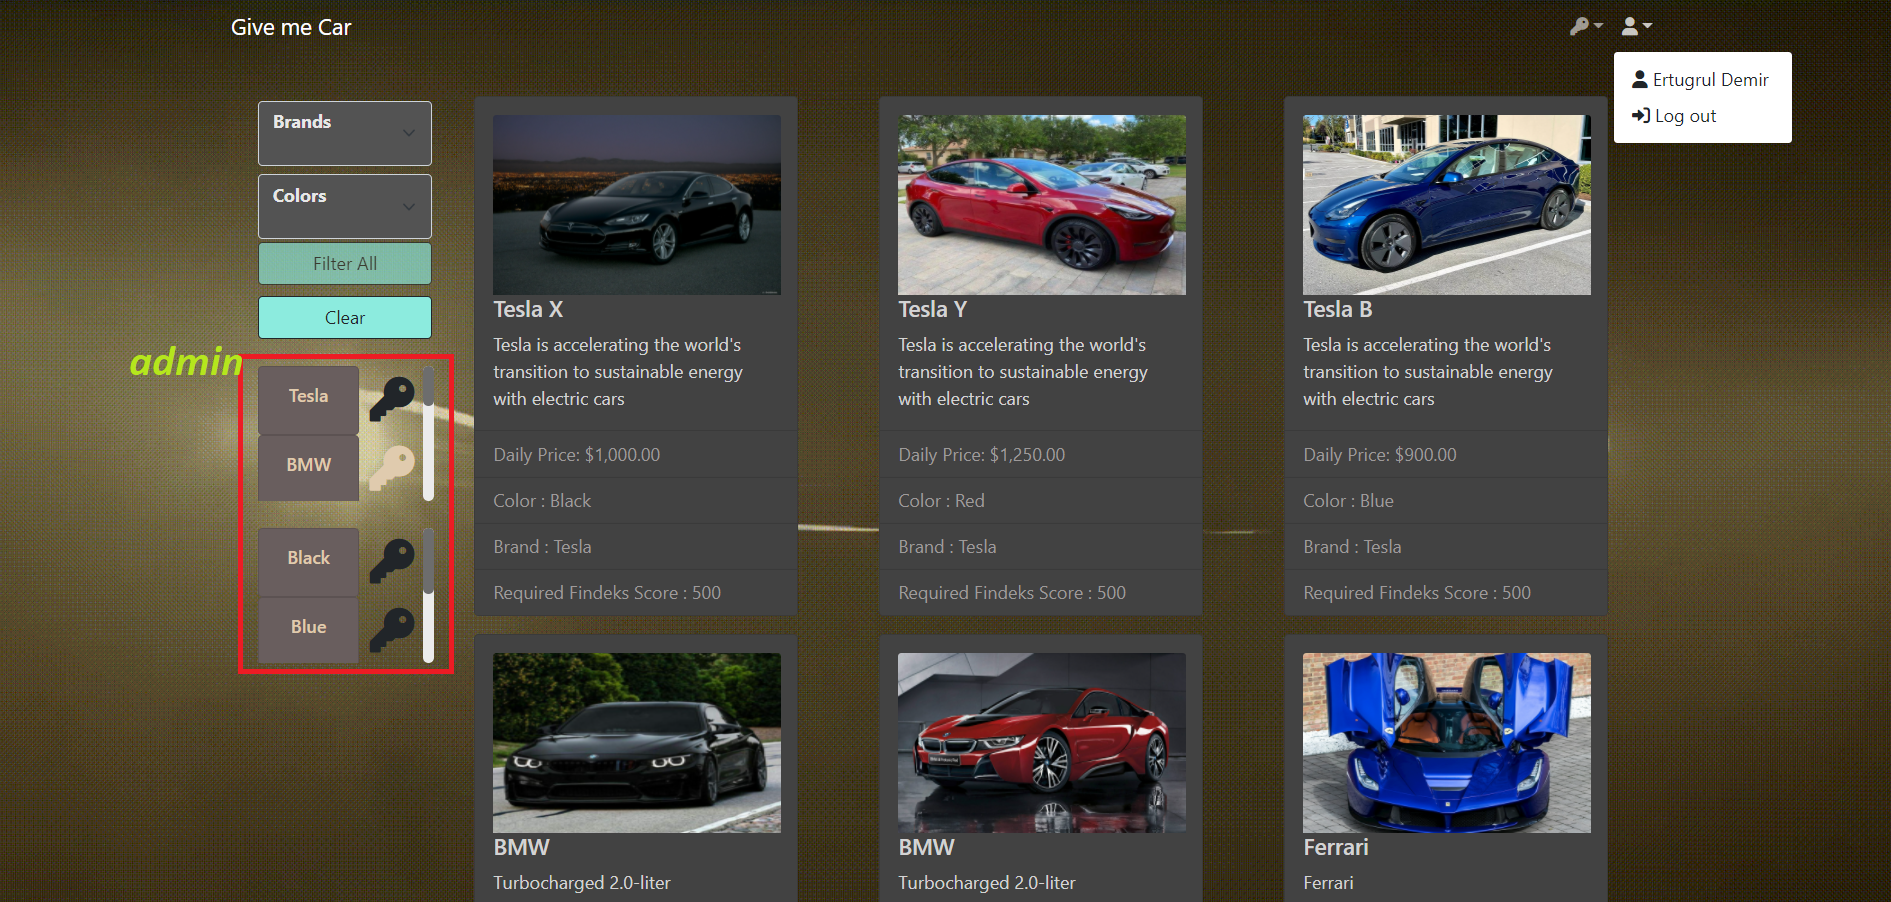
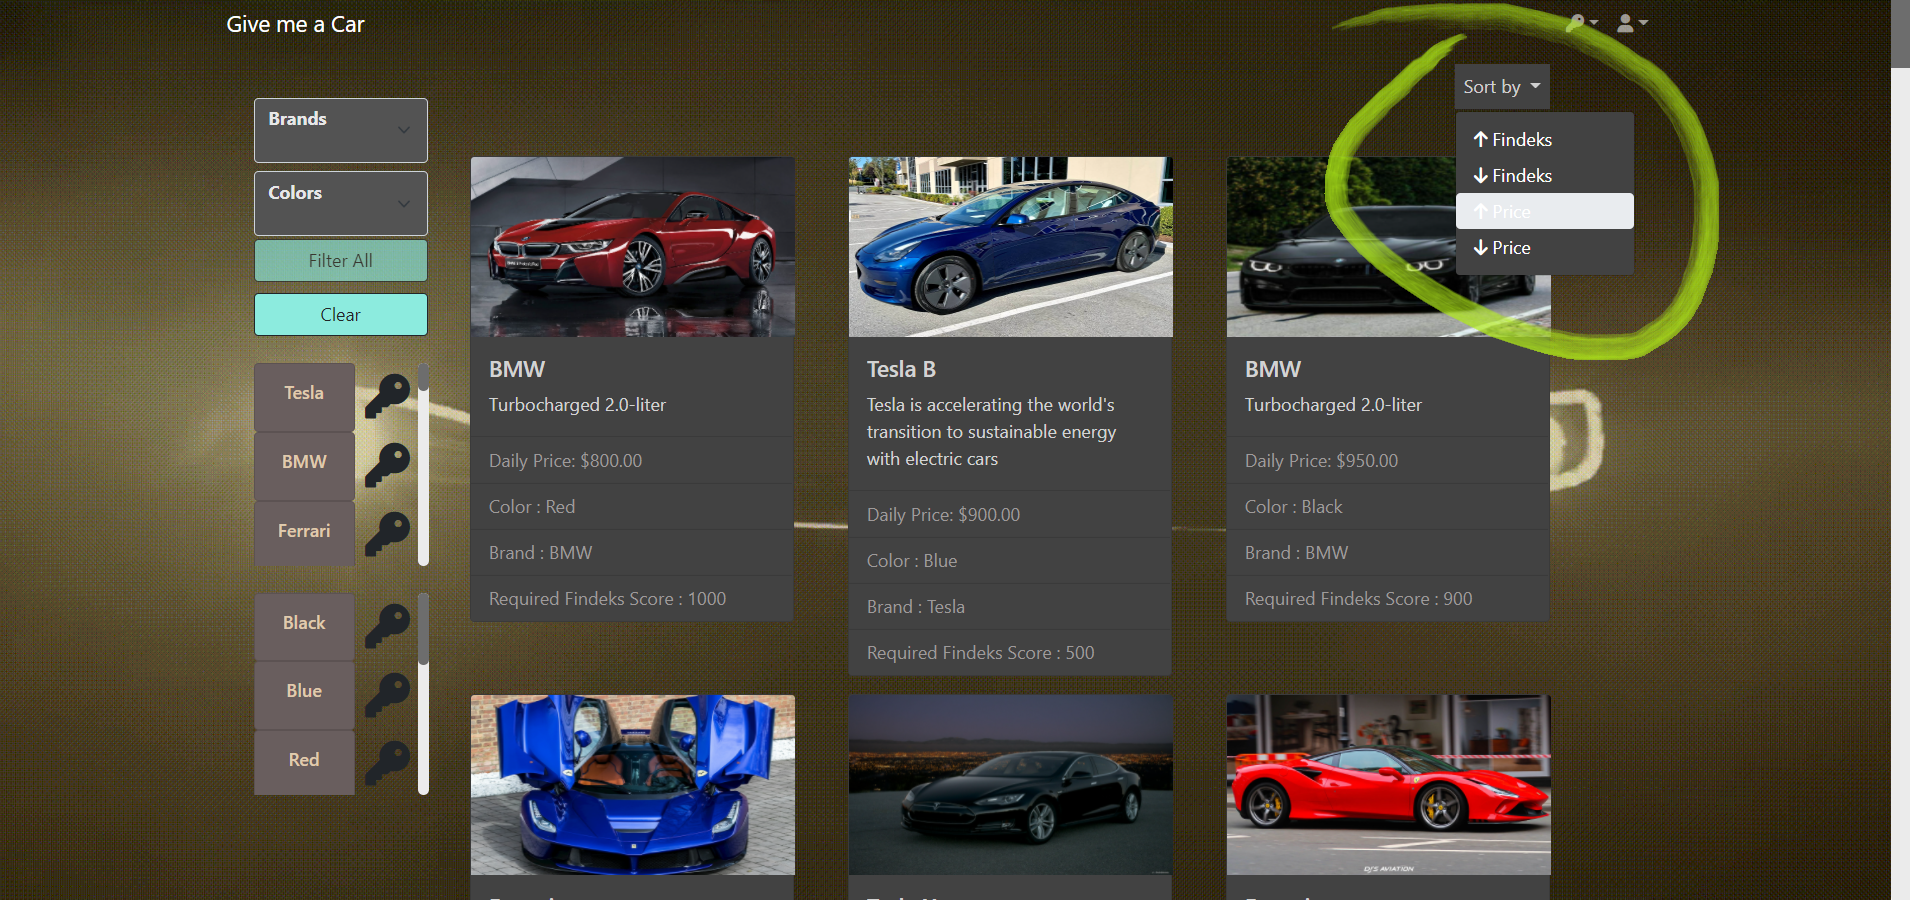
.

diff --git a/src/app/components/car/car.component.html b/src/app/components/car/car.component.html
@@ -57,18 +57,18 @@
                           <a
                             class="dropdown-item btn"
                             style="color: #fff"
-                            (click)="filterByDailyPrice()"
-                            ><i class="fa-solid fa-arrow-up"></i>
-                            Price
+                            (click)="filterByMinFindeksScore2()"
+                            ><i class="fa-solid fa-arrow-down"></i>
+                            Findeks
                           </a>
                         </li>
                         <li>
                           <a
                             class="dropdown-item btn"
                             style="color: #fff"
-                            (click)="filterByMinFindeksScore2()"
-                            ><i class="fa-solid fa-arrow-down"></i>
-                            Findeks
+                            (click)="filterByDailyPrice()"
+                            ><i class="fa-solid fa-arrow-up"></i>
+                            Price
                           </a>
                         </li>
                         <li>

diff --git a/src/app/components/car-detail/car-detail.component.ts b/src/app/components/car-detail/car-detail.component.ts
@@ -85,6 +85,8 @@ export class CarDetailComponent implements OnInit {
         this.getBrands();
         this.getColors();
         this.createCarUpdateForm();
+        this.returnDateFormat();
+        this.getToday();
       }
     });
   }
@@ -153,6 +155,16 @@ export class CarDetailComponent implements OnInit {
     });
   }
 
+  getToday(): string {
+    let today: string;
+    let date = new Date();
+    let dd = String(date.getDate()).padStart(2, '0');
+    let mm = String(date.getMonth() + 1).padStart(2, '0'); //January is 0!
+    let yyyy = date.getFullYear().toString();
+
+    today = yyyy + '-' + mm + '-' + dd;
+    return today;
+  }
   returnDateFormat() {
     this.lastRentalReturnDate =
       new Date(this.lastRental.returnDate.toString()).getFullYear().toString() +

diff --git a/src/app/components/car-detail/car-detail.component.html b/src/app/components/car-detail/car-detail.component.html
@@ -100,7 +100,7 @@
           <input
             type="date"
             [(ngModel)]="rentDate"
-            [min]="lastRentalReturnDate"
+            [min]="getToday()"
             class="form-control"
             id="rentDate"
           />
